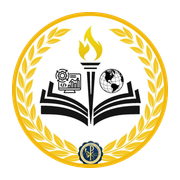
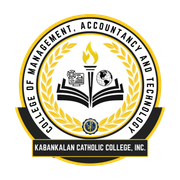
Use the full CMAT badge (transparent) instead of the cropped emblem

diff --git a/src/components/AppHeader.tsx b/src/components/AppHeader.tsx
@@ -44,7 +44,14 @@ export function AppHeader({ profile }: { profile: Profile | null }) {
     <header className="sticky top-0 z-30 border-b border-slate-200 bg-white/95 backdrop-blur print:hidden">
       <div className={`mx-auto flex max-w-4xl items-center justify-between gap-3 px-4 ${bottomNav ? "py-2.5 sm:pb-0 sm:pt-3" : "pt-3"}`}>
         <Link href={profile ? HOME[profile.role] : "/"} className="flex min-h-9 items-center gap-2">
-          <Image src="/brand/cmat-emblem.png" alt="" width={32} height={32} className="h-8 w-8" priority />
+          <Image
+            src="/brand/cmat-logo.png"
+            alt="CMAT logo"
+            width={40}
+            height={40}
+            className="h-10 w-10 object-contain"
+            priority
+          />
           <span className="text-sm font-semibold text-slate-900">CMAT Attendance</span>
         </Link>
         <div className="flex items-center gap-4">

diff --git a/src/components/LoginForm.tsx b/src/components/LoginForm.tsx
@@ -55,11 +55,11 @@ export function LoginForm({ notice }: { notice: string | null }) {
       <div className="w-full max-w-sm">
         <div className="mb-6 flex flex-col items-center text-center">
           <Image
-            src="/brand/cmat-logo.jpg"
+            src="/brand/cmat-logo.png"
             alt="College of Management, Accountancy and Technology — Kabankalan Catholic College, Inc."
-            width={144}
-            height={144}
-            className="h-28 w-28 rounded-2xl shadow-md sm:h-36 sm:w-36"
+            width={160}
+            height={162}
+            className="h-32 w-32 object-contain drop-shadow-sm sm:h-40 sm:w-40"
             priority
           />
           <h1 className="mt-4 text-xl font-semibold text-slate-900">CMAT Council Attendance</h1>

diff --git a/src/components/CredentialSlips.tsx b/src/components/CredentialSlips.tsx
@@ -62,7 +62,7 @@ function SlipSheet({ credentials }: { credentials: SlipCredential[] }) {
               <div key={s.studentId} className="slip-card border border-dashed border-slate-400 p-3 text-xs">
                 <p className="flex items-center gap-1.5 text-[10px] font-semibold uppercase tracking-wide text-slate-500">
                   {/* eslint-disable-next-line @next/next/no-img-element -- plain img so it's already loaded when printing */}
-                  <img src="/brand/cmat-emblem.png" alt="" className="h-5 w-5" />
+                  <img src="/brand/cmat-logo.png" alt="" className="h-6 w-6 object-contain" />
                   CMAT Council Attendance
                 </p>
                 <p className="mt-1 text-sm font-semibold">{s.fullName}</p>

diff --git a/src/components/AttendanceRecordView.tsx b/src/components/AttendanceRecordView.tsx
@@ -100,7 +100,7 @@ export async function AttendanceRecordView({
       <div className="mt-6 rounded-xl border border-slate-200 bg-white p-5 print:border-0 print:p-0">
         <div className="flex flex-wrap items-start justify-between gap-4 border-b border-slate-100 pb-4">
           <div className="flex items-start gap-3">
-          <Image src="/brand/cmat-emblem.png" alt="" width={56} height={56} className="h-14 w-14 shrink-0" />
+          <Image src="/brand/cmat-logo.png" alt="" width={64} height={65} className="h-16 w-16 shrink-0 object-contain" />
           <div>
             <p className="text-xs font-medium uppercase tracking-wide text-slate-400">
               CMAT Council · Attendance record

diff --git a/src/app/manifest.ts b/src/app/manifest.ts
@@ -12,7 +12,7 @@ export default function manifest(): MetadataRoute.Manifest {
     background_color: "#f8fafc",
     theme_color: "#0f172a",
     icons: [
-      { src: "/brand/cmat-emblem.png", sizes: "512x512", type: "image/png", purpose: "any" },
+      { src: "/brand/cmat-icon-512.png", sizes: "512x512", type: "image/png", purpose: "any" },
       { src: "/icon.png", sizes: "256x256", type: "image/png" },
       { src: "/apple-icon.png", sizes: "180x180", type: "image/png" },
     ],
